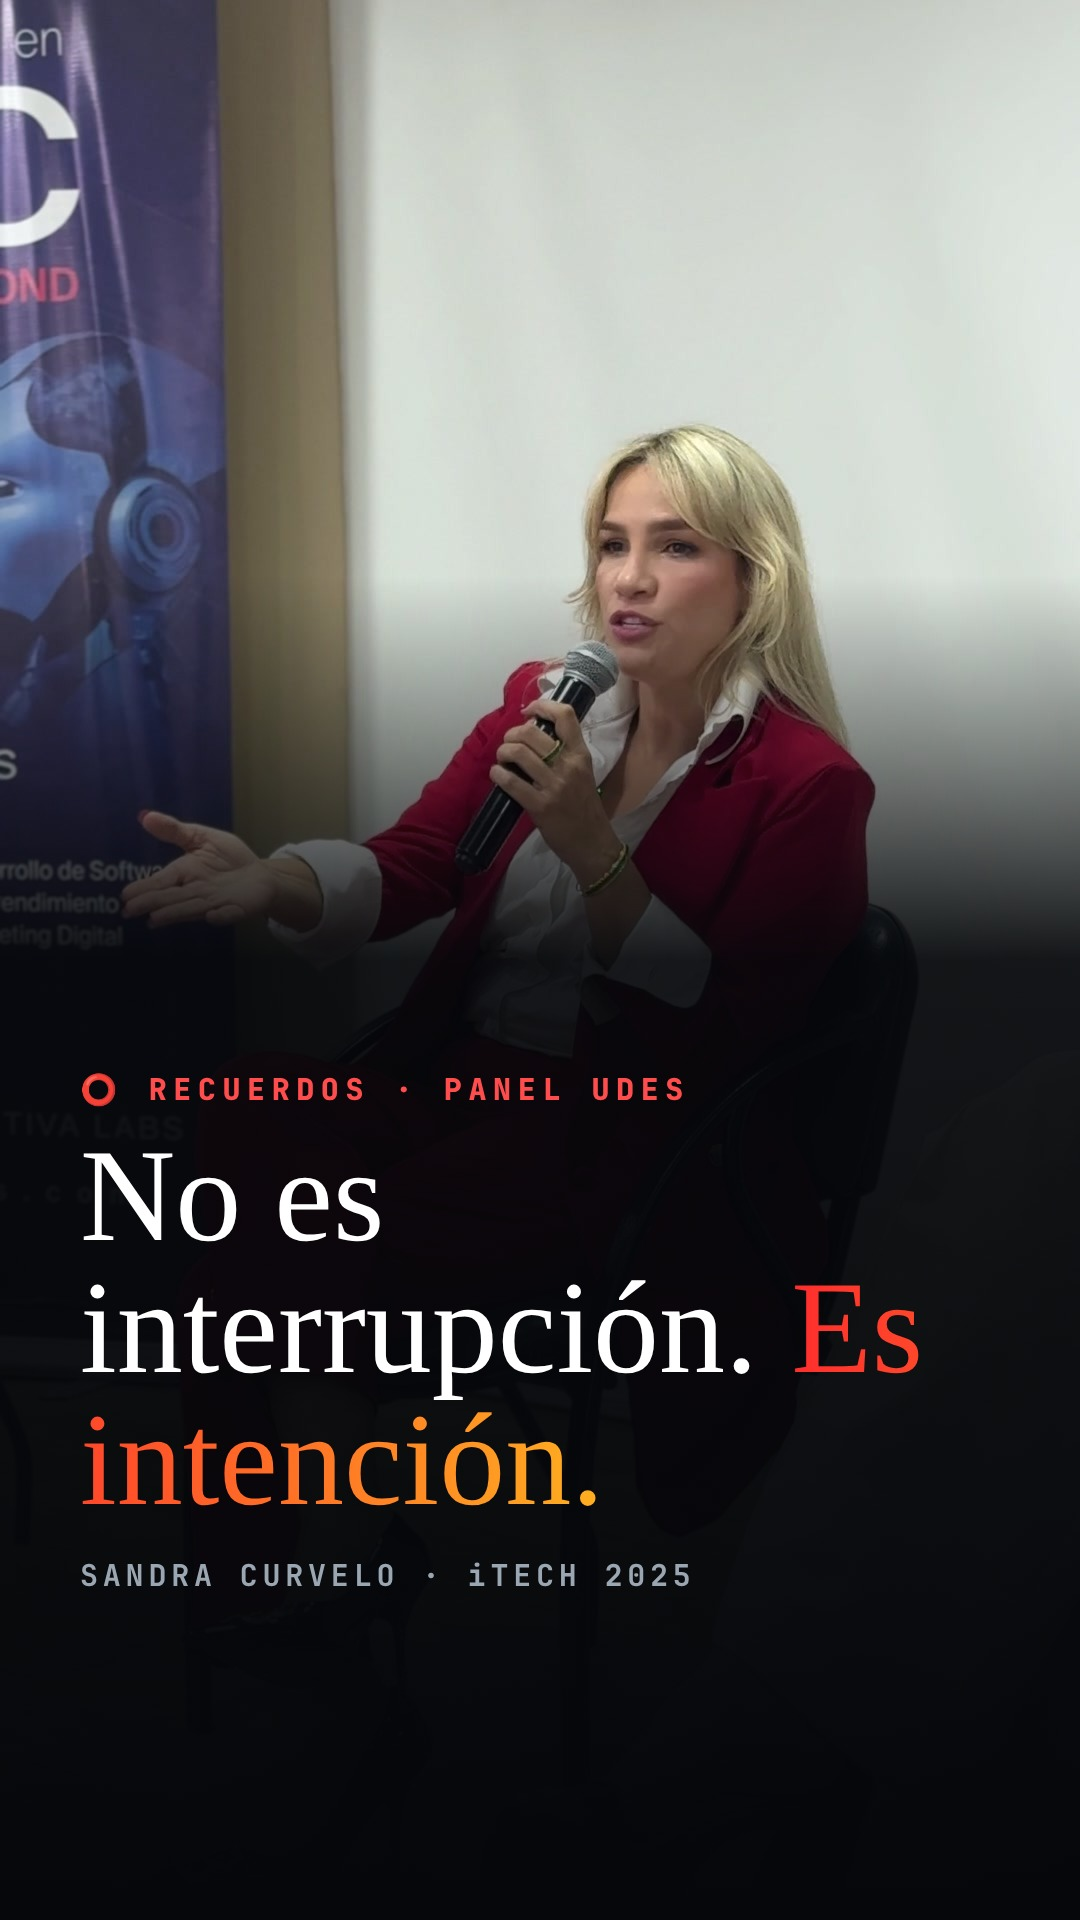
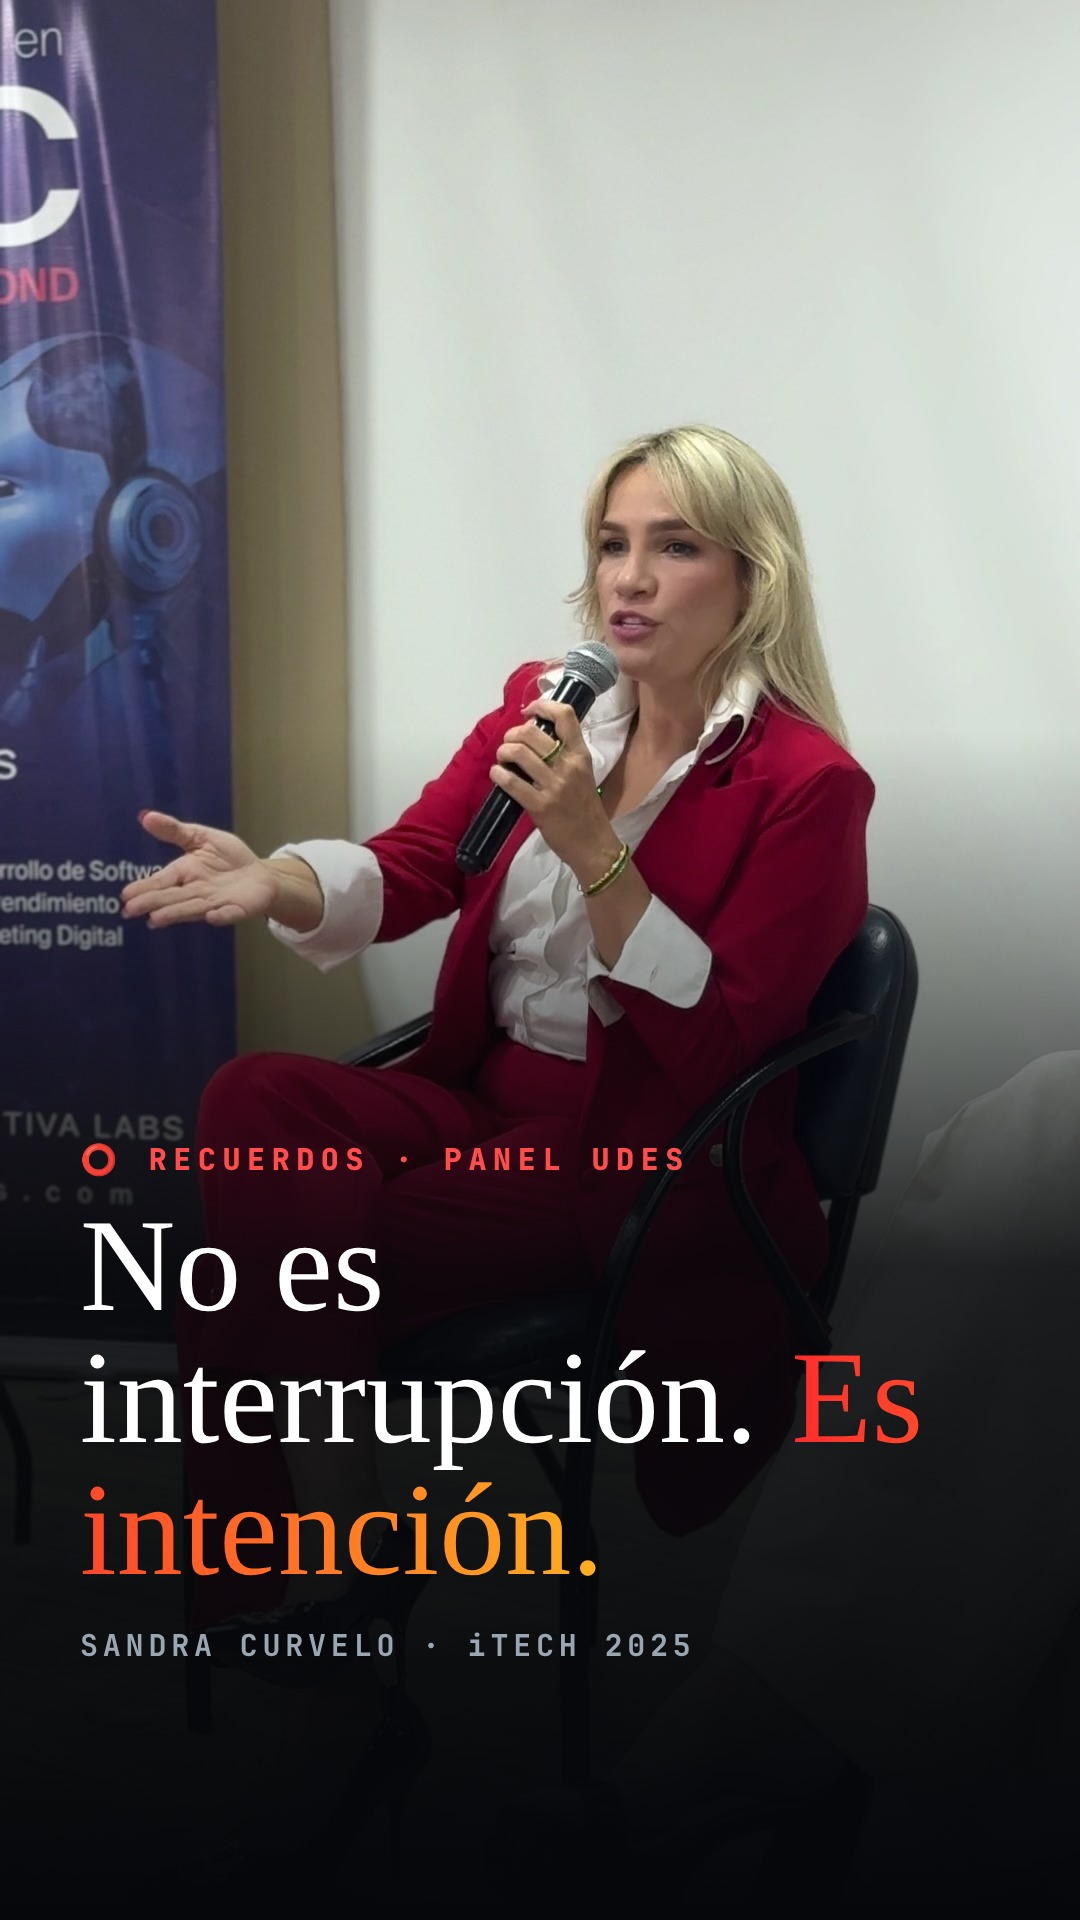
Reel UDES: portada con sombreado original y retoque de silueta en la cintura
Claude-Session: https://claude.ai/code/session_01NfWH1YnxdbRLc9ZrUJbHYq

Changed region(s): [[0.0, 0.3125, 1.0, 0.875]]

diff --git a/estrategia/instagram/reel-recuerdo-udes/cover.html b/estrategia/instagram/reel-recuerdo-udes/cover.html
@@ -2,8 +2,8 @@
 *{margin:0;padding:0;box-sizing:border-box}
 .c{width:1080px;height:1920px;position:relative;overflow:hidden;font-family:Inter,Arial,sans-serif}
 .c img{position:absolute;inset:0;width:100%;height:100%;object-fit:cover}
-.sh{position:absolute;inset:0;background:linear-gradient(180deg,rgba(5,7,10,0) 30%,rgba(5,7,10,.93) 50%,#05070a 100%)}
-.t{position:absolute;left:80px;right:80px;bottom:330px;color:#fff}
+.sh{position:absolute;inset:0;background:linear-gradient(180deg,rgba(5,7,10,0) 38%,rgba(5,7,10,.88) 66%,#05070a 100%)}
+.t{position:absolute;left:80px;right:80px;bottom:260px;color:#fff}
 .eye{font:800 30px/1 "JetBrains Mono";letter-spacing:.22em;color:#ff4d4d}
 h1{font-family:Georgia,serif;font-weight:400;font-size:132px;line-height:1;margin-top:26px}
 em{font-style:normal;background:linear-gradient(90deg,#ff2d2d,#ffb020);-webkit-background-clip:text;background-clip:text;color:transparent}
@@ -11,6 +11,6 @@ em{font-style:normal;background:linear-gradient(90deg,#ff2d2d,#ffb020);-webkit-b
 .top{position:absolute;top:0;left:0;right:0;height:46%;background:linear-gradient(180deg,#05070a 0,#05070a 55%,rgba(5,7,10,0) 100%)}
 .t2{position:absolute;top:150px;left:80px;right:80px;color:#fff}
 </style></head><body>
-<div class="c" id="c1"><img src="f1.jpg"><div class="sh"></div><div class="t"><p class="eye">⭕ RECUERDOS · PANEL UDES</p><h1>No es interrupción. <em>Es intención.</em></h1><p class="s">SANDRA CURVELO · iTECH 2025</p></div></div>
+<div class="c" id="c1"><img src="fuente/frame-portada-retoque.jpg"><div class="sh"></div><div class="t"><p class="eye">⭕ RECUERDOS · PANEL UDES</p><h1>No es interrupción. <em>Es intención.</em></h1><p class="s">SANDRA CURVELO · iTECH 2025</p></div></div>
 <div class="c" id="c2"><img src="f2.jpg" style="object-position:center 70%;transform:translateY(240px) scale(1.0)"><div class="top"></div><div class="t2"><p class="eye">⭕ RECUERDOS · PANEL UDES</p><h1 style="font-size:118px">¿Tu cliente se distrae <em>o te busca?</em></h1></div></div>
 </body></html>
